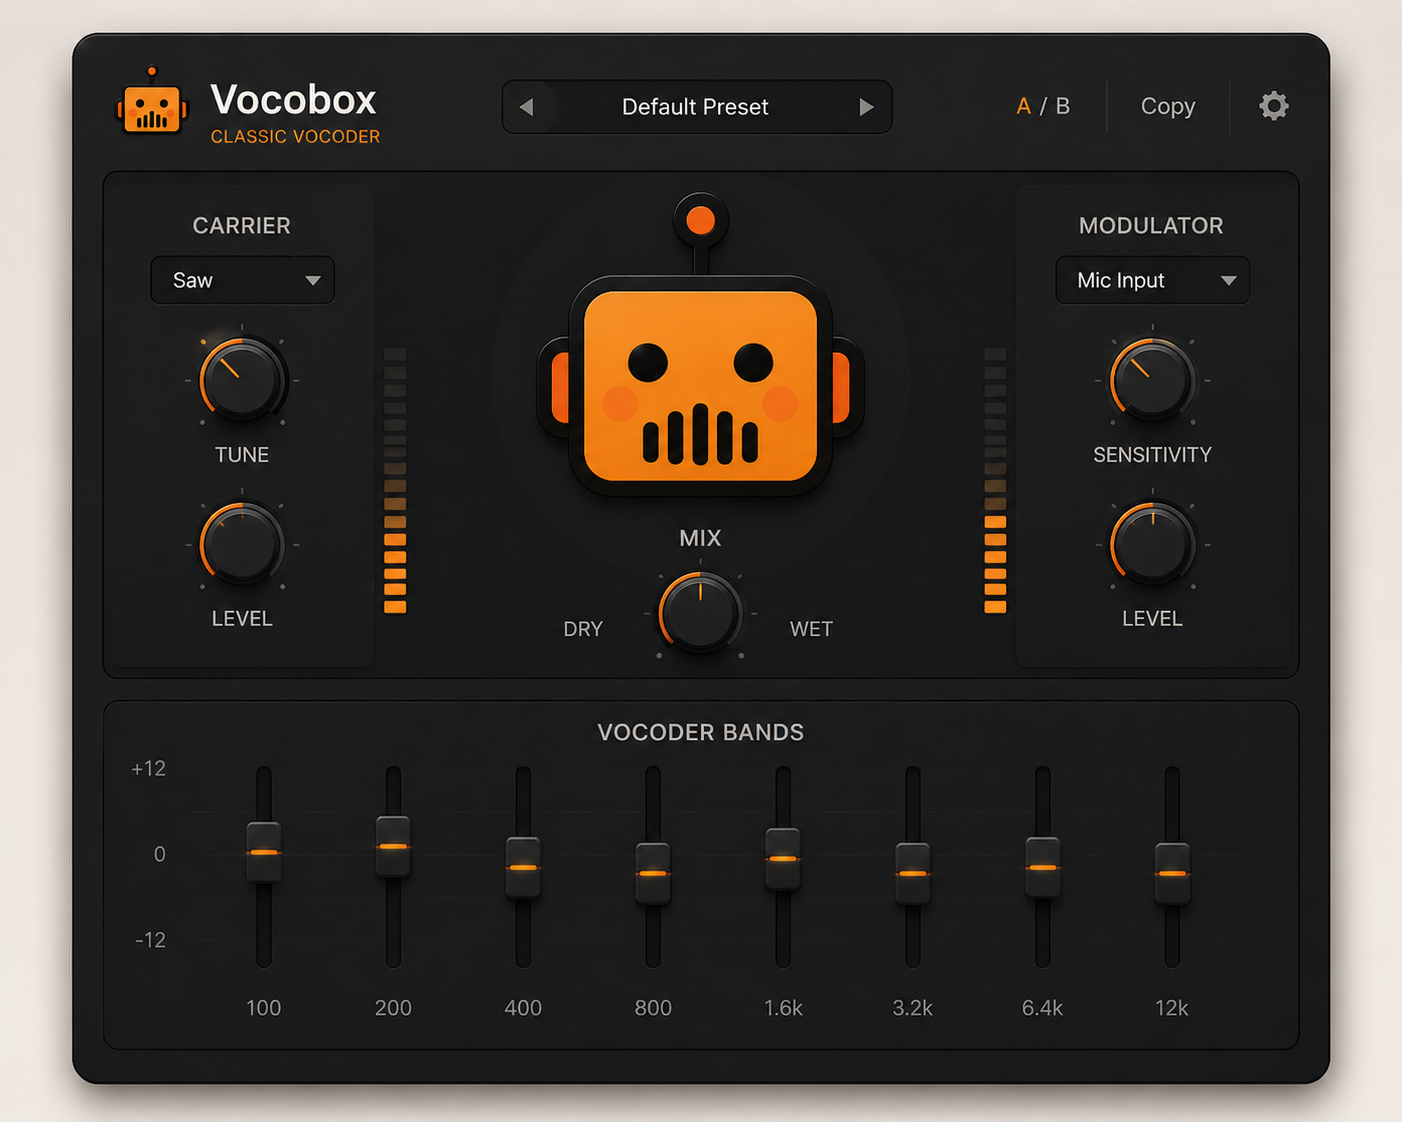
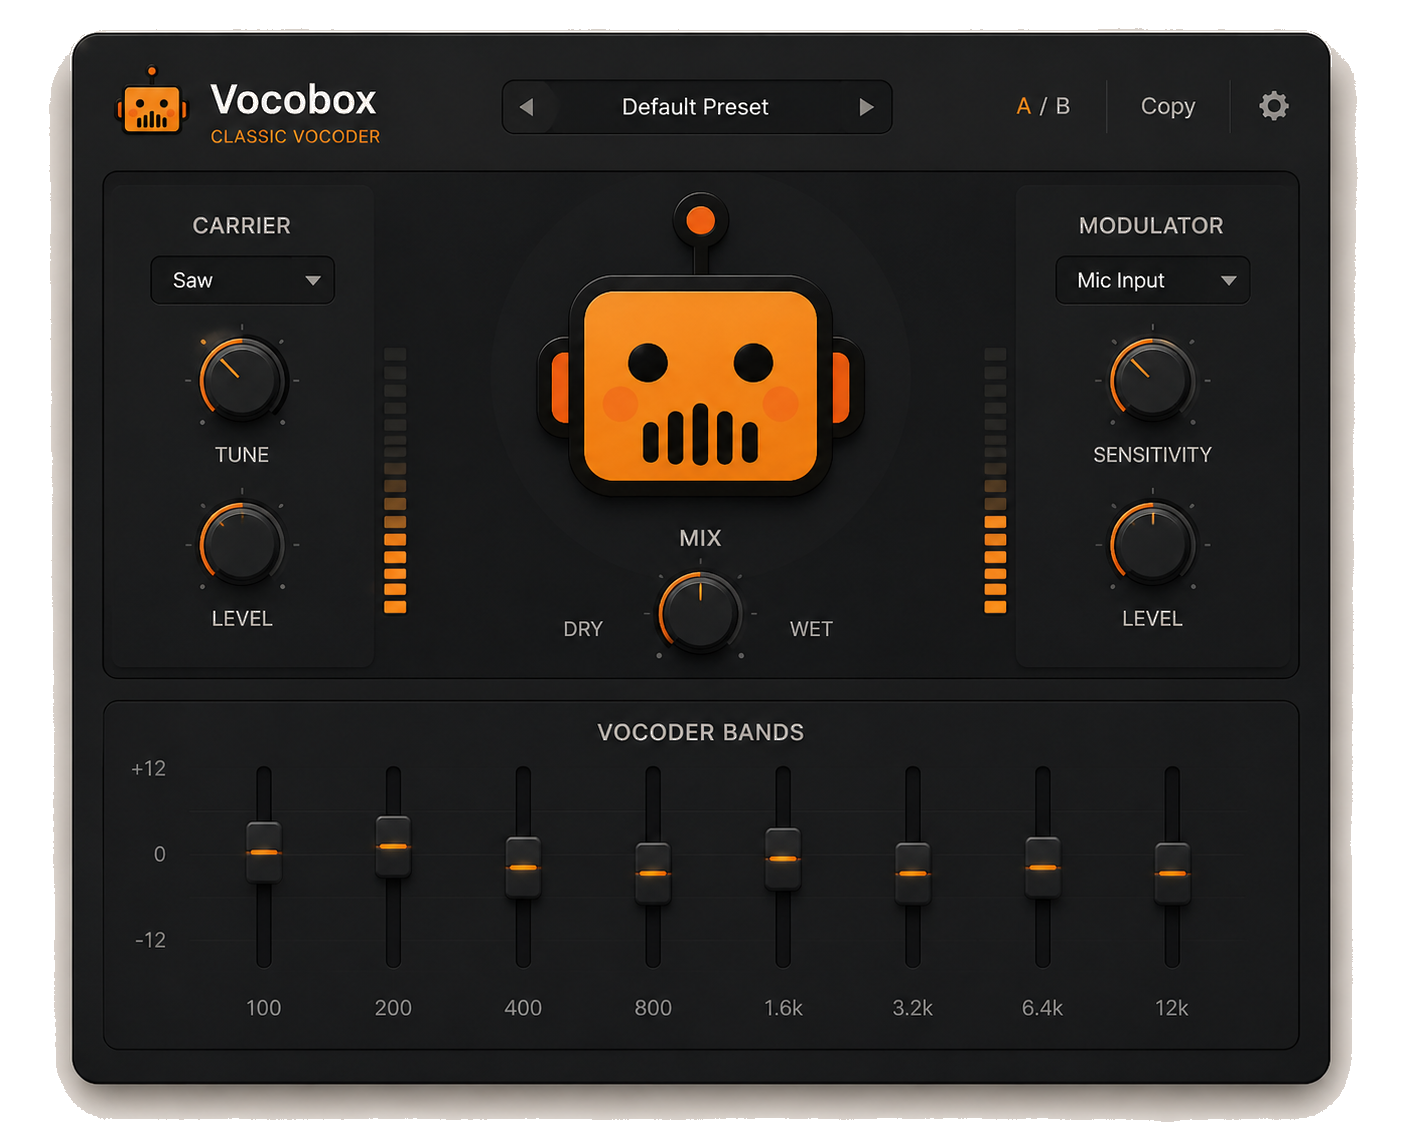
New_Animation_Plugin

Changed region(s): [[0.0, 0.0, 1.0, 1.0]]

diff --git a/app/components/PluginsSection.tsx b/app/components/PluginsSection.tsx
@@ -1,5 +1,6 @@
+"use client";
 import Image from "next/image";
-import type { ReactNode } from "react";
+import { useRef, useState, type MouseEvent, type ReactNode } from "react";
 
 type Control = { label: string; value: number };
 
@@ -22,9 +23,9 @@ const plugins: Plugin[] = [
     bestFor: "Vocals, synths, sound design",
     price: "FREE",
     category: "Modulation",
-    accent: "#e879f9",
+    accent: "#f5a623",
     downloadUrl: "/Vocobox_LuluPlug.zip",
-    image: "/ui_vocobox.png",
+    image: "/ui_vocobox_no_background.png",
     controls: [
       { label: "RATE", value: 0.3 },
       { label: "DEPTH", value: 0.55 },
@@ -92,22 +93,74 @@ function Knob({ control, accent }: { control: Control; accent: string }) {
       >
         <div className="w-0.5 h-2.5 rounded-full" style={{ backgroundColor: accent }} />
       </div>
-      <span className="text-zinc-500 text-[9px] tracking-widest font-mono">{control.label}</span>
+      <span className="text-brown-light text-[9px] tracking-widest font-mono">{control.label}</span>
     </div>
   );
 }
 
-// fenêtre de plugin "flottante" avec lueur colorée en fond, façon Arturia
+// petits carrés décoratifs disposés autour de la fenêtre, qui bougent avec elle au survol
+const decorSquares = [
+  { top: "-10%", left: "-6%", size: 22, lag: 1 },
+  { top: "8%", left: "104%", size: 16, lag: 1.6 },
+  { top: "78%", left: "-8%", size: 14, lag: 1.3 },
+  { top: "92%", left: "98%", size: 20, lag: 0.8 },
+];
+
+// fenêtre de plugin "flottante", entourée de petits carrés qui se déplacent avec elle au survol
 function PluginWindow({ accent, children }: { accent: string; children: ReactNode }) {
+  const windowRef = useRef<HTMLDivElement>(null);
+  const [offset, setOffset] = useState({ x: 0, y: 0 });
+  const [isHovering, setIsHovering] = useState(false);
+
+  function handleMouseMove(e: MouseEvent<HTMLDivElement>) {
+    const el = windowRef.current;
+    if (!el) return;
+    const rect = el.getBoundingClientRect();
+    // position de la souris par rapport au centre de la fenêtre, normalisée entre -1 et 1
+    const px = (e.clientX - rect.left) / rect.width - 0.5;
+    const py = (e.clientY - rect.top) / rect.height - 0.5;
+    setOffset({ x: px * 16, y: py * 12 });
+  }
+
+  function handleMouseLeave() {
+    setOffset({ x: 0, y: 0 });
+    setIsHovering(false);
+  }
+
+  const transition = isHovering ? "transform 0.15s ease-out" : "transform 0.4s ease-out";
+
   return (
-    <div className="relative pt-6 px-4">
+    <div className="relative pt-6 px-6 pb-2">
+      {/* les carrés suivent le même déplacement que la fenêtre, en plus marqué, pour donner un effet vivant */}
+      {decorSquares.map((sq, i) => (
+        <div
+          key={i}
+          className="absolute rounded-md"
+          style={{
+            top: sq.top,
+            left: sq.left,
+            width: sq.size,
+            height: sq.size,
+            backgroundColor: accent,
+            opacity: isHovering ? 0.8 : 0.35,
+            transform: `translate(${offset.x * sq.lag}px, ${offset.y * sq.lag}px) scale(${isHovering ? 1.15 : 1})`,
+            transition,
+          }}
+        />
+      ))}
+
       <div
-        className="absolute inset-x-6 inset-y-2 rounded-full blur-2xl"
-        style={{ backgroundColor: accent, animation: "plugin-glow 5s ease-in-out infinite" }}
-      />
-      <div
-        className="relative bg-zinc-900 rounded-xl overflow-hidden shadow-xl transition-transform duration-300 ease-out group-hover:scale-[1.04] group-hover:-translate-y-1"
-        style={{ aspectRatio: "16/8", animation: "plugin-float 6s ease-in-out infinite" }}
+        ref={windowRef}
+        onMouseMove={handleMouseMove}
+        onMouseEnter={() => setIsHovering(true)}
+        onMouseLeave={handleMouseLeave}
+        className="relative bg-accent/15 rounded-xl overflow-hidden shadow-xl"
+        style={{
+          aspectRatio: "16/8",
+          animation: "plugin-float 6s ease-in-out infinite",
+          transform: `translate(${offset.x}px, ${offset.y}px) scale(${isHovering ? 1.03 : 1})`,
+          transition,
+        }}
       >
         {children}
       </div>
@@ -131,12 +184,12 @@ function PluginUI({ plugin }: { plugin: Plugin }) {
     <PluginWindow accent={plugin.accent}>
       <div className="h-full p-6 flex flex-col gap-5">
         <div className="flex items-center justify-between">
-          <span className="text-zinc-600 text-[10px] font-mono tracking-widest uppercase">luluplug</span>
+          <span className="text-brown-light text-[10px] font-mono tracking-widest uppercase">luluplug</span>
           <span className="text-[10px] font-mono tracking-widest uppercase" style={{ color: plugin.accent }}>
             {plugin.category}
           </span>
         </div>
-        <p className="text-white text-xl font-bold tracking-tight leading-none">{plugin.name}</p>
+        <p className="text-brown text-xl font-bold tracking-tight leading-none">{plugin.name}</p>
         <div className="flex items-end justify-between">
           <div className="flex gap-4">
             {plugin.controls.map((ctrl) => (
@@ -161,7 +214,7 @@ function PluginUI({ plugin }: { plugin: Plugin }) {
 function PluginCard({ plugin }: { plugin: Plugin }) {
   const isFree = plugin.price === "FREE";
   return (
-    <div className="group flex flex-col rounded-xl border border-border hover:shadow-lg transition-shadow duration-300 bg-surface overflow-hidden">
+    <div className="flex flex-col rounded-xl overflow-visible bg-transparent">
       <PluginUI plugin={plugin} />
       <div className="p-5 flex flex-col flex-1">
         <div className="flex items-center justify-between mb-3">

diff --git a/app/components/Hero.tsx b/app/components/Hero.tsx
@@ -52,20 +52,20 @@ export default function Hero() {
           </div>
         </div>
 
-        <div className="w-full max-w-sm mx-auto rounded-2xl shadow-2xl bg-accent/15 flex flex-col items-center justify-center gap-4 py-8">
-          {/* audio caché, pas de contrôles visibles : on le lance via le bouton */}
+        <button
+          type="button"
+          onClick={handlePlayPause}
+          aria-label={isPlaying ? "Pause demo" : "Play demo"}
+          className="w-full max-w-sm mx-auto rounded-2xl shadow-2xl bg-accent/15 flex flex-col items-center justify-center gap-4 py-8 transition-transform duration-300 ease-out hover:scale-105 cursor-pointer"
+        >
+          {/* audio caché, pas de contrôles visibles : on le lance en cliquant sur la fenêtre */}
           <audio ref={audioRef} src="/vocobox-demo.mp3" onEnded={() => setIsPlaying(false)} />
-          
+
           <Image src="/vocobox_logo_text.png" alt="Vocobox" width={220} height={242} className="object-contain" />
-          <button
-            type="button"
-            onClick={handlePlayPause}
-            aria-label={isPlaying ? "Pause demo" : "Play demo"}
-            className="w-16 h-16 rounded-full bg-brown text-bg flex items-center justify-center text-2xl shadow-xl transition-transform duration-300 ease-out hover:scale-110 hover:opacity-90"
-          >
+          <span className="w-16 h-16 rounded-full bg-brown text-bg flex items-center justify-center text-2xl shadow-xl">
             {isPlaying ? "❙❙" : "▶"}
-          </button>
-        </div>
+          </span>
+        </button>
       </div>
     </section>
   );
